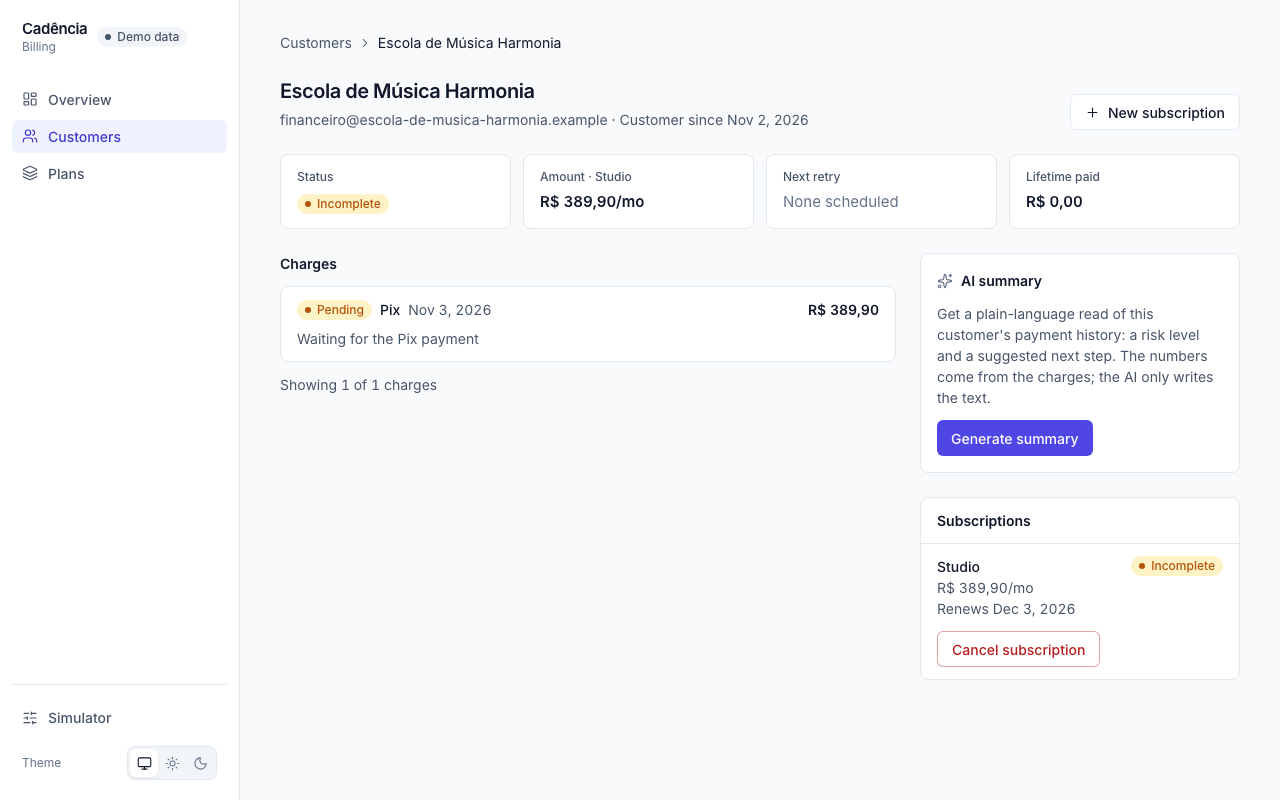
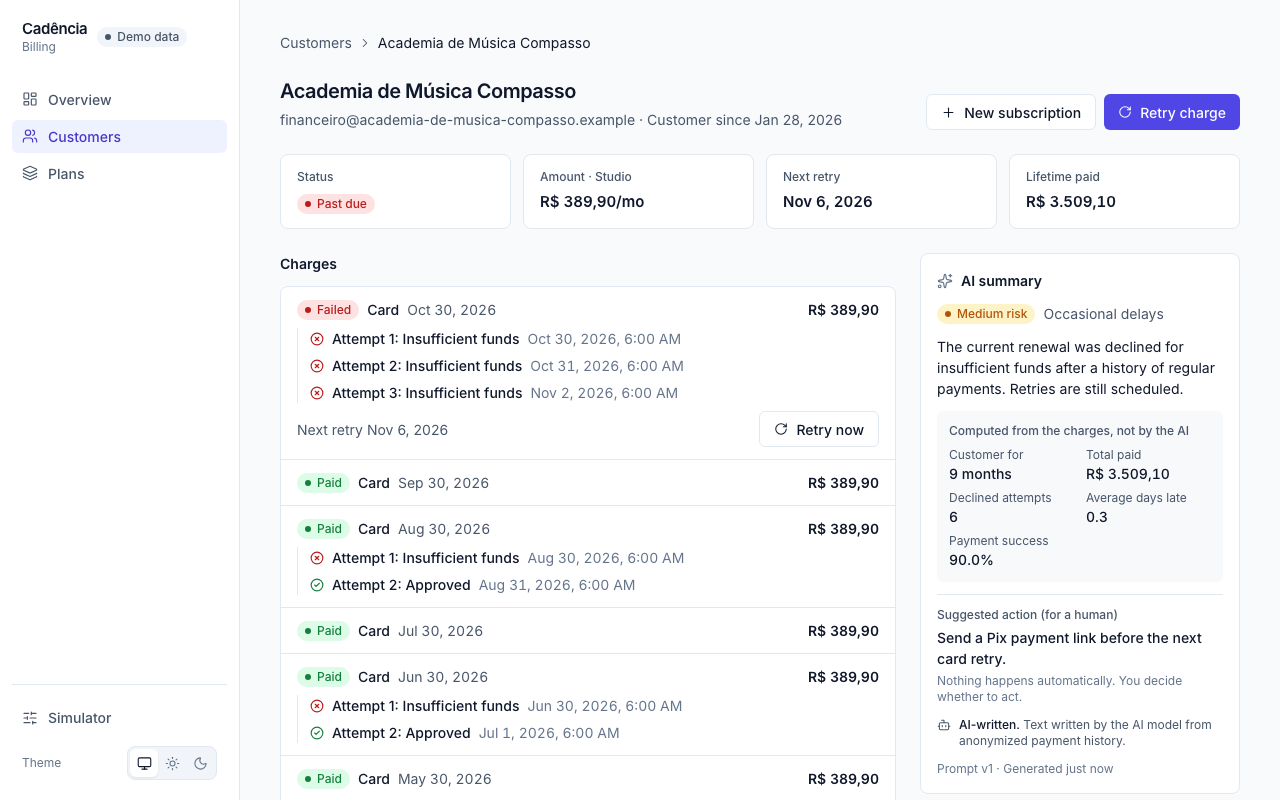
docs: screenshots of every screen, simulator, dark theme and mobile

diff --git a/scripts/record-demo.ts b/scripts/record-demo.ts
@@ -10,15 +10,32 @@ type Seed = {
 const PORT = 4174
 const BASE_URL = `http://localhost:${PORT}`
 const VIEWPORT = { width: 1280, height: 800 }
+const MOBILE = { viewport: { width: 390, height: 844 }, deviceScaleFactor: 2 }
 const MEDIA_DIR = new URL('../docs/media/', import.meta.url).pathname
 const VIDEO_DIR = `${MEDIA_DIR}.video/`
 const GIF_WIDTH = 880
 const GIF_FPS = 10
 
-function customerWithPendingPix() {
-  const seed = JSON.parse(
+function readSeed() {
+  return JSON.parse(
     readFileSync(new URL('../src/mocks/seed.json', import.meta.url), 'utf8'),
   ) as Seed
+}
+
+function customerWithFailedCard() {
+  const seed = readSeed()
+  const charge = seed.charges.find(
+    (candidate) => candidate.method === 'card' && candidate.status === 'failed',
+  )
+  const subscription = seed.subscriptions.find(
+    (candidate) => candidate.id === charge?.subscriptionId,
+  )
+  if (!subscription) throw new Error('The seed has no failed card charge')
+  return subscription.customerId
+}
+
+function customerWithPendingPix() {
+  const seed = readSeed()
   const incomplete = new Map(
     seed.subscriptions
       .filter((subscription) => subscription.status === 'incomplete')
@@ -51,18 +68,31 @@ async function settle(page: Page) {
   await page.waitForTimeout(600)
 }
 
-async function captureScreens(page: Page, customerId: string) {
-  const screens = [
-    { file: 'overview.png', path: '/' },
-    { file: 'customers.png', path: '/customers' },
-    { file: 'customer-detail.png', path: `/customers/${customerId}` },
-    { file: 'plans.png', path: '/plans' },
-  ]
-  for (const { file, path } of screens) {
-    await page.goto(`${BASE_URL}${path}`)
-    await settle(page)
-    await page.screenshot({ path: `${MEDIA_DIR}${file}` })
-  }
+async function capture(page: Page, path: string, file: string) {
+  await page.goto(`${BASE_URL}${path}`)
+  await settle(page)
+  await page.screenshot({ path: `${MEDIA_DIR}${file}` })
+}
+
+async function captureScreens(page: Page, pastDueId: string) {
+  await capture(page, '/', 'overview.png')
+  await capture(page, '/customers', 'customers.png')
+  await capture(page, '/plans', 'plans.png')
+
+  await page.goto(`${BASE_URL}/customers/${pastDueId}`)
+  await settle(page)
+  await page.getByRole('button', { name: 'Generate summary' }).click()
+  await page.getByText('Suggested action').first().waitFor()
+  await settle(page)
+  await page.screenshot({ path: `${MEDIA_DIR}customer-detail.png` })
+}
+
+async function captureSimulator(page: Page, pixCustomerId: string) {
+  await page.goto(`${BASE_URL}/customers/${pixCustomerId}`)
+  await settle(page)
+  await page.getByRole('button', { name: 'Simulator' }).last().click()
+  await settle(page)
+  await page.screenshot({ path: `${MEDIA_DIR}simulator.png` })
 }
 
 async function recordSimulator(page: Page, customerId: string) {
@@ -113,10 +143,30 @@ async function main() {
   try {
     await waitForServer()
     const customerId = customerWithPendingPix()
+    const pastDueId = customerWithFailedCard()
 
     const screensContext = await browser.newContext({ viewport: VIEWPORT })
-    await captureScreens(await screensContext.newPage(), customerId)
+    await captureScreens(await screensContext.newPage(), pastDueId)
     await screensContext.close()
+
+    const simulatorContext = await browser.newContext({ viewport: VIEWPORT })
+    await captureSimulator(await simulatorContext.newPage(), customerId)
+    await simulatorContext.close()
+
+    const darkContext = await browser.newContext({
+      viewport: VIEWPORT,
+      colorScheme: 'dark',
+    })
+    await capture(await darkContext.newPage(), '/', 'overview-dark.png')
+    await darkContext.close()
+
+    const mobileContext = await browser.newContext(MOBILE)
+    await capture(
+      await mobileContext.newPage(),
+      `/customers/${pastDueId}`,
+      'customer-detail-mobile.png',
+    )
+    await mobileContext.close()
 
     const videoContext = await browser.newContext({
       viewport: VIEWPORT,

diff --git a/README.md b/README.md
@@ -14,11 +14,25 @@ A React 19 dashboard for billing operations at **Cadência**, a fictional Brazil
 - **Plans:** list and create plans.
 - **Simulator:** approve a Pix, expire a boleto, force a card decline, run the retry clock, or simulate API and LLM failures, and watch every screen update.
 
-| Overview                               | Customer detail                                    |
-| -------------------------------------- | -------------------------------------------------- |
-| ![Overview](docs/media/overview.png)   | ![Customer detail](docs/media/customer-detail.png) |
-| **Customers**                          | **Plans**                                          |
-| ![Customers](docs/media/customers.png) | ![Plans](docs/media/plans.png)                     |
+## Screens
+
+**Customer detail.** A past-due customer: the declined attempts with their reasons, the next scheduled retry, "Retry charge" as the primary action, and the AI summary with its risk level, the figures computed from the charges, and a suggested next step.
+
+![Customer detail with declined card attempts, the retry schedule and the AI summary](docs/media/customer-detail.png)
+
+**Overview.** MRR, active and past-due subscriptions and the delinquency rate against the same days of the previous period, revenue by month and subscriptions by status.
+
+![Overview with KPI cards, revenue by month and subscriptions by status](docs/media/overview.png)
+
+**Simulator.** Docked beside the page, it approves a Pix, expires a boleto, forces a card decline, runs the retry clock, resets the demo, and can break the API or the LLM to show the error states.
+
+![Customer page with the simulator panel open](docs/media/simulator.png)
+
+| Customers                                                                             | Plans                                                                |
+| ------------------------------------------------------------------------------------- | -------------------------------------------------------------------- |
+| ![Customers list with search, status filter and pagination](docs/media/customers.png) | ![Plans list and the new plan form](docs/media/plans.png)            |
+| **Dark theme**                                                                        | **Mobile**                                                           |
+| ![Overview in the dark theme](docs/media/overview-dark.png)                           | ![Customer detail on a phone](docs/media/customer-detail-mobile.png) |
 
 ## Running it
 
